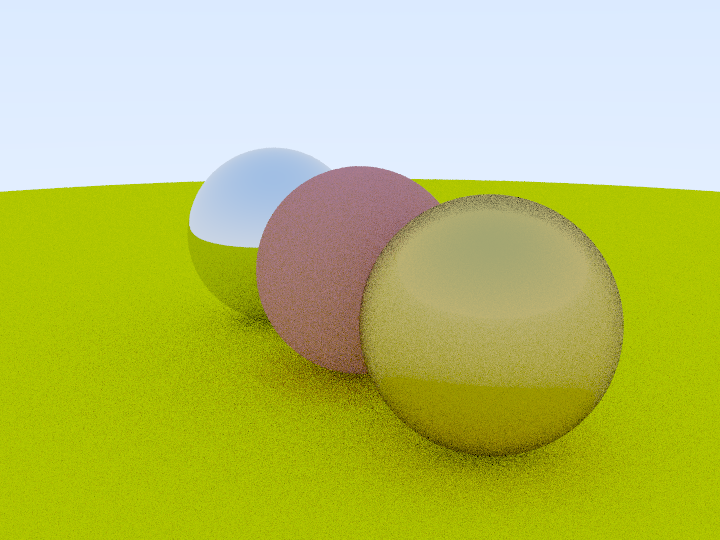
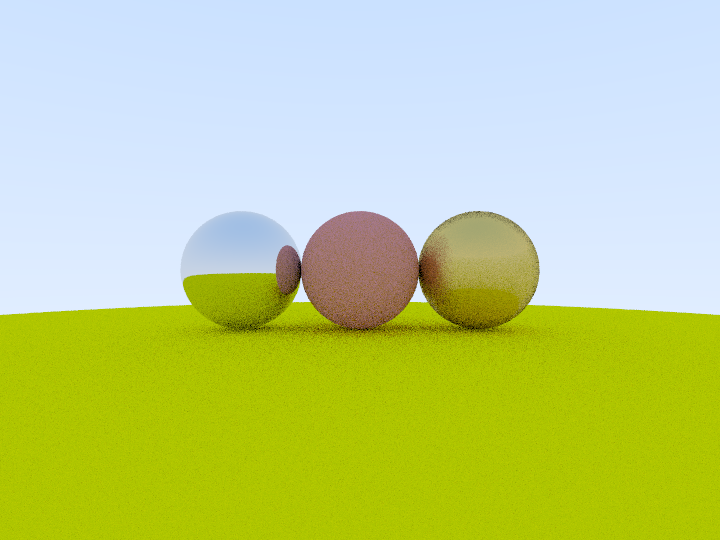
[MOD] 1. finish pinhole camera;

diff --git a/engine/rrt/RrtTest.cpp b/engine/rrt/RrtTest.cpp
@@ -14,7 +14,6 @@
 #include <atomic>
 
 #include "RrtTest.h"
-#include "RrtCamera.h"
 #include "LensCamera.h"
 #include "PinholeCamera.h"
 #include "Ray.h"
@@ -57,13 +56,9 @@ void RrtTest::main()
 	std::replace(path.begin(), path.end(), oldVal, newVal);
 	path.append("/RrtTest.png");
 
-	RrtCamera camera;
-	camera.setPosition(glm::vec3(3.5f, 1.f, 2.f));
-	camera.setLookAt(glm::vec3(0.f, 0.f, 0.f));
-	camera.setViewportSize(glm::vec2(width, height));
-	camera.setFov(35);
-	//camera.setApertureLen(0.06f);
-	camera.apply();
+	std::shared_ptr<ICamera> camera = std::make_shared<PinholeCamera>();
+	camera->setViewportSize(glm::vec2(width, height));
+	camera->apply();
 
 	HittableList world;
 	std::shared_ptr<Hittable> sphereCenter = std::make_shared<Sphere>(glm::vec3(0.f, 0.f, 0.f), 0.5f);
@@ -116,7 +111,7 @@ void RrtTest::main()
 	g_running.store(false);
 }
 
-void RrtTest::draw(const RrtCamera& camera, const HittableList& obj, const int width, const int height, const int channel,
+void RrtTest::draw(const std::shared_ptr<ICamera>& camera, const HittableList& obj, const int width, const int height, const int channel,
 	               const int sampleCnt, const int reflectCnt, uint8_t* data)
 {
 	int outputRow, outputCol;
@@ -137,7 +132,7 @@ void RrtTest::draw(const RrtCamera& camera, const HittableList& obj, const int w
 			{
 				u = float(col) + GfxLib::random();
 				v = float(row) + GfxLib::random();
-				Ray ray = camera.getRay(u, v);
+				Ray ray = camera->getRay(u, v);
 				glm::vec3 ret = rayColor(ray, obj, reflectCnt);
 				sampleColor = sampleColor + ret * scale;
 			}

diff --git a/engine/rrt/include/RrtTest.h b/engine/rrt/include/RrtTest.h
@@ -2,8 +2,9 @@
 #define RRT_TEST_H
 
 #include <glm/glm.hpp>
+#include <memory>
 
-class RrtCamera;
+class ICamera;
 class Ray;
 class HittableList;
 
@@ -14,7 +15,7 @@ public:
 	static bool checkRunning();
 
 private:
-	static void draw(const RrtCamera &camera, const HittableList& obj, const int width, const int height, const int channel,
+	static void draw(const std::shared_ptr<ICamera> &camera, const HittableList& obj, const int width, const int height, const int channel,
 		             const int sampleCnt, const int reflectCnt, uint8_t* data);
 	static glm::vec3 rayColor(const Ray& ray, const HittableList& obj, int reflectDepth);
 

diff --git a/engine/rrt/tools/ICamera.cpp b/engine/rrt/tools/ICamera.cpp
@@ -2,8 +2,8 @@
 
 #include "ICamera.h"
 
-ICamera::ICamera() : m_fov(60.f), m_near(0.1f), m_far(10.f),
-	                 m_camPos(0.f), m_lookAt(0.f, 0.f, -1.f), 
+ICamera::ICamera() : m_fov(60.f), m_near(1.f), m_far(10.f),
+	                 m_camPos(0.f, 0.f, 4.f), m_lookAt(0.f, 0.f, 0.f), 
                      m_camFront(0.f), m_camRight(0.f), m_camUp(0.f),
 					 m_viewportSize(500.f),
 	                 m_camMat(1.f), m_prjMat(1.f), m_screenMat(1.f),

diff --git a/engine/rrt/tools/PinholeCamera.cpp b/engine/rrt/tools/PinholeCamera.cpp
@@ -6,6 +6,13 @@ PinholeCamera::~PinholeCamera() = default;
 
 Ray PinholeCamera::getRay(float u, float v)
 {
+	glm::vec3 dst = glm::vec3(u, v, 0.f);
+	// homogeneous coordinate, mark w as 1.f to make it a point
+	dst = m_invMat * glm::vec4(dst, 1.f);
+
 	Ray ray;
+	ray.setOrigin(m_camPos);
+	ray.setDirection(dst - m_camPos);
+
 	return ray;
 }

diff --git a/engine/rrt/tools/include/PinholeCamera.h b/engine/rrt/tools/include/PinholeCamera.h
@@ -3,6 +3,9 @@
 
 #include "ICamera.h"
 
+/*
+ * for pinhole camera, near is the focal distance
+ */
 class PinholeCamera : public ICamera
 {
 public:
